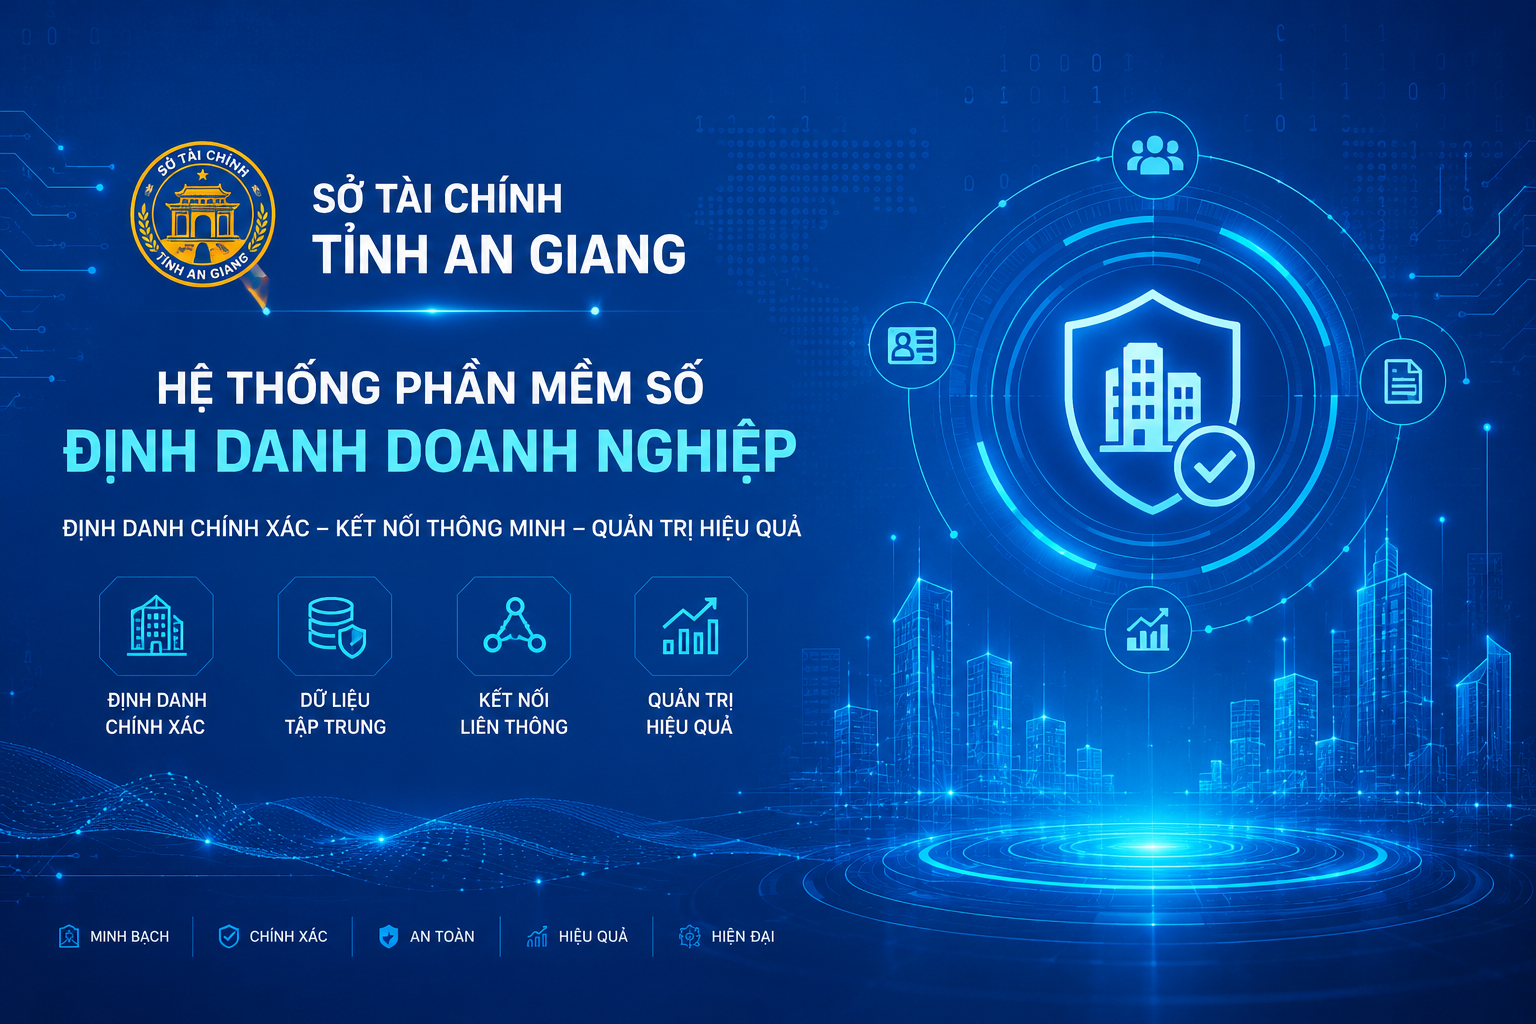
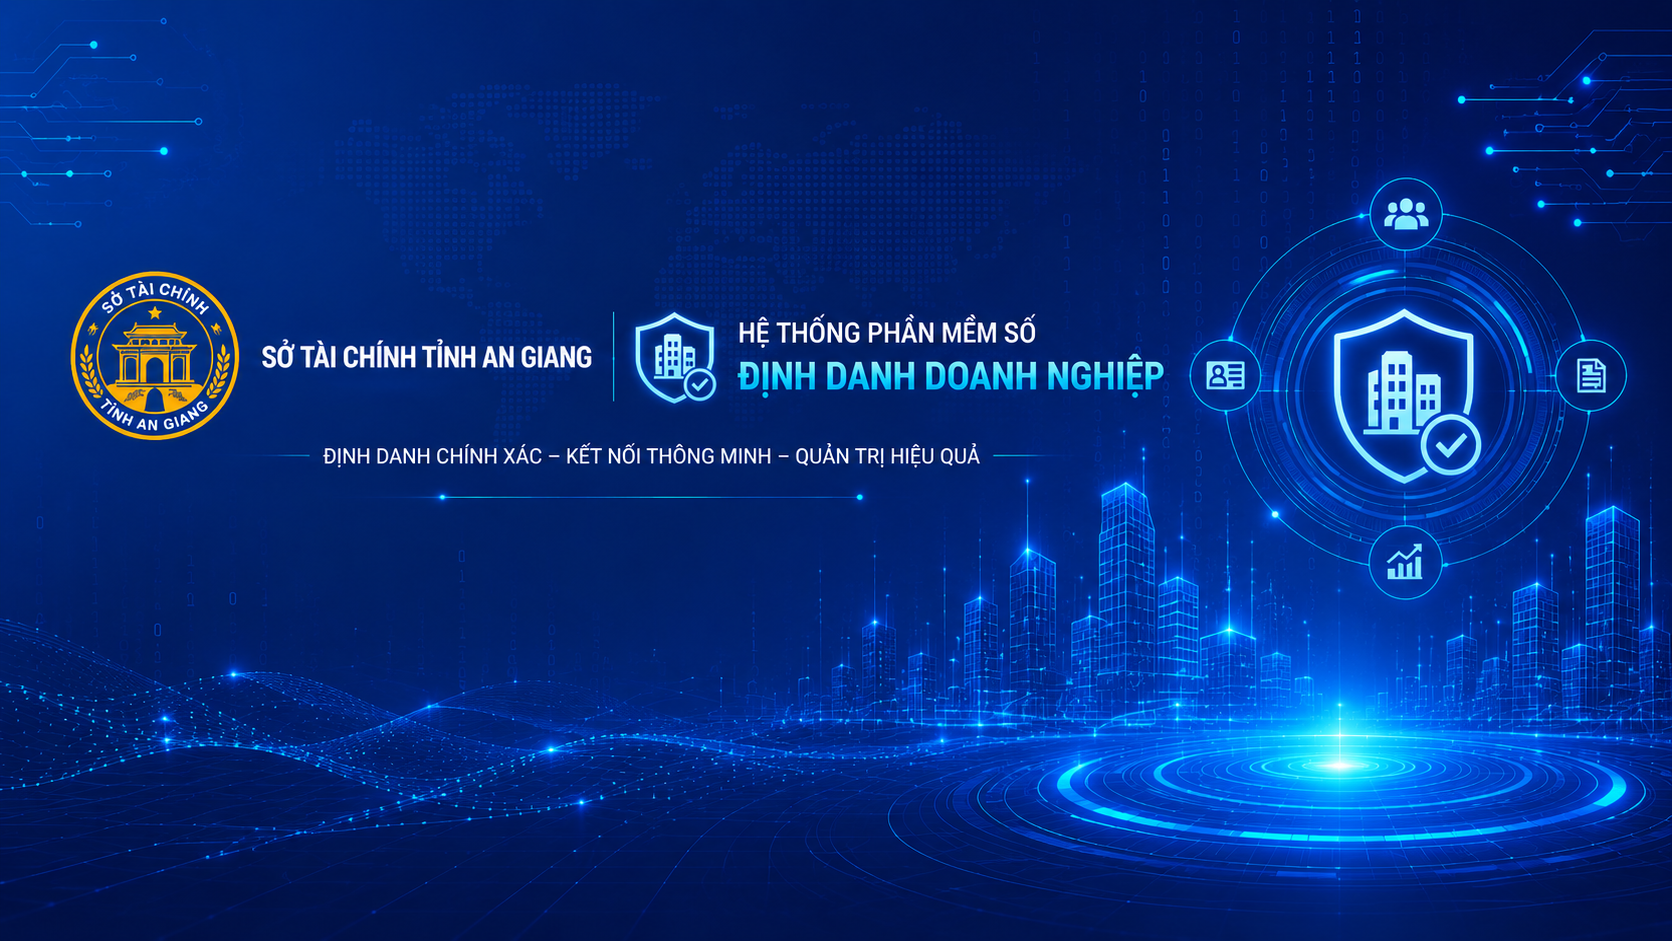
update style

diff --git a/src/views/Admin/MenuConfiguration.vue b/src/views/Admin/MenuConfiguration.vue
@@ -3,7 +3,8 @@
     <div class="space-y-5">
       <ComponentCard title="Cấu hình menu (ROOT)">
         <p class="mb-4 text-sm text-gray-500 dark:text-gray-400">
-          Sửa tên hiển thị và kéo thả để sắp xếp danh mục menu. Dashboard luôn cố định ở vị trí đầu tiên.
+          Chỉ được sửa <strong>tên hiển thị</strong> và <strong>thứ tự</strong> menu. Danh sách mục và phân quyền là cố định — không xóa được.
+          Dashboard luôn đứng đầu.
         </p>
 
         <div v-if="error" class="mb-4 rounded-lg border border-red-200 bg-red-50 px-3 py-2 text-sm text-red-700 dark:border-red-800 dark:bg-red-950/30 dark:text-red-300">
@@ -119,11 +120,19 @@
             </template>
           </draggable>
 
-          <div class="flex justify-end gap-2 pt-2">
+          <div class="flex flex-wrap justify-end gap-2 pt-2">
+            <button
+              type="button"
+              class="inline-flex h-10 items-center rounded-lg border border-amber-400 px-4 text-sm font-medium text-amber-700 dark:border-amber-600 dark:text-amber-400"
+              :disabled="saving || syncing"
+              @click="syncDefaults"
+            >
+              {{ syncing ? 'Đang đồng bộ...' : 'Đồng bộ menu mặc định' }}
+            </button>
             <button
               type="button"
               class="inline-flex h-10 items-center rounded-lg border border-gray-300 px-4 text-sm font-medium text-gray-700 dark:border-gray-700 dark:text-gray-300"
-              :disabled="saving"
+              :disabled="saving || syncing"
               @click="loadMenu"
             >
               Tải lại
@@ -131,7 +140,7 @@
             <button
               type="button"
               class="inline-flex h-10 items-center rounded-lg bg-brand-500 px-4 text-sm font-medium text-white hover:bg-brand-600 disabled:opacity-50"
-              :disabled="saving"
+              :disabled="saving || syncing"
               @click="saveOrder"
             >
               {{ saving ? 'Đang lưu...' : 'Lưu cấu hình menu' }}
@@ -160,6 +169,7 @@ const menuStore = useMenuStore()
 
 const loading = ref(true)
 const saving = ref(false)
+const syncing = ref(false)
 const error = ref('')
 const success = ref('')
 const tree = ref<NavMenuNode[]>([])
@@ -203,6 +213,23 @@ async function loadMenu() {
     error.value = 'Không tải được cấu hình menu.'
   } finally {
     loading.value = false
+  }
+}
+
+async function syncDefaults() {
+  syncing.value = true
+  error.value = ''
+  success.value = ''
+  try {
+    await navMenuService.syncDefaults()
+    tree.value = await navMenuService.getAdminMenu()
+    await menuStore.fetchMenu()
+    success.value = 'Đã đồng bộ menu mặc định (giữ tên và thứ tự đã cấu hình).'
+  } catch (err: unknown) {
+    const axiosErr = err as { response?: { data?: { message?: string } } }
+    error.value = axiosErr.response?.data?.message ?? 'Không đồng bộ được menu mặc định.'
+  } finally {
+    syncing.value = false
   }
 }
 

diff --git a/src/views/Auth/Signin.vue b/src/views/Auth/Signin.vue
@@ -2,8 +2,7 @@
   <FullScreenLayout>
     <div class="signin-page relative flex h-full w-full items-center justify-center overflow-hidden px-4 py-6">
       <div
-        class="pointer-events-none absolute inset-0 bg-cover bg-center bg-no-repeat"
-        :style="{ backgroundImage: `url('${backgroundUrl}')` }"
+        class="signin-bg pointer-events-none absolute inset-0 bg-cover bg-center bg-no-repeat"
         aria-hidden="true"
       />
       <div class="pointer-events-none absolute inset-0 bg-brand-950/35" aria-hidden="true" />
@@ -100,8 +99,6 @@ import FullScreenLayout from '@/components/layout/FullScreenLayout.vue'
 import { useAuthStore } from '@/stores/auth'
 import { APP_NAME } from '@/config/app'
 
-const backgroundUrl = '/images/background.png'
-
 const auth = useAuthStore()
 const router = useRouter()
 const route = useRoute()
@@ -131,3 +128,15 @@ const handleSubmit = async () => {
   }
 }
 </script>
+
+<style scoped>
+.signin-bg {
+  background-image: url('/images/bg-mobile.png');
+}
+
+@media (min-width: 768px) {
+  .signin-bg {
+    background-image: url('/images/background.png');
+  }
+}
+</style>

diff --git a/src/components/layout/FullScreenLayout.vue b/src/components/layout/FullScreenLayout.vue
@@ -3,9 +3,6 @@
     <main class="flex min-h-0 flex-1 overflow-hidden">
       <slot></slot>
     </main>
-    <footer class="shrink-0 border-t border-white/20 bg-white/90 px-4 py-2.5 text-center text-xs text-gray-600 backdrop-blur-sm dark:border-gray-800 dark:bg-gray-900/90 dark:text-gray-400">
-      {{ APP_FOOTER }}
-    </footer>
   </div>
 </template>
 

diff --git a/src/services/navMenuService.ts b/src/services/navMenuService.ts
@@ -16,4 +16,8 @@ export const navMenuService = {
     const { data } = await api.put<{ data: NavMenuNode[] }>('/nav-menu/reorder', { items })
     return data.data ?? []
   },
+
+  async syncDefaults(): Promise<void> {
+    await api.post('/nav-menu/sync')
+  },
 }
